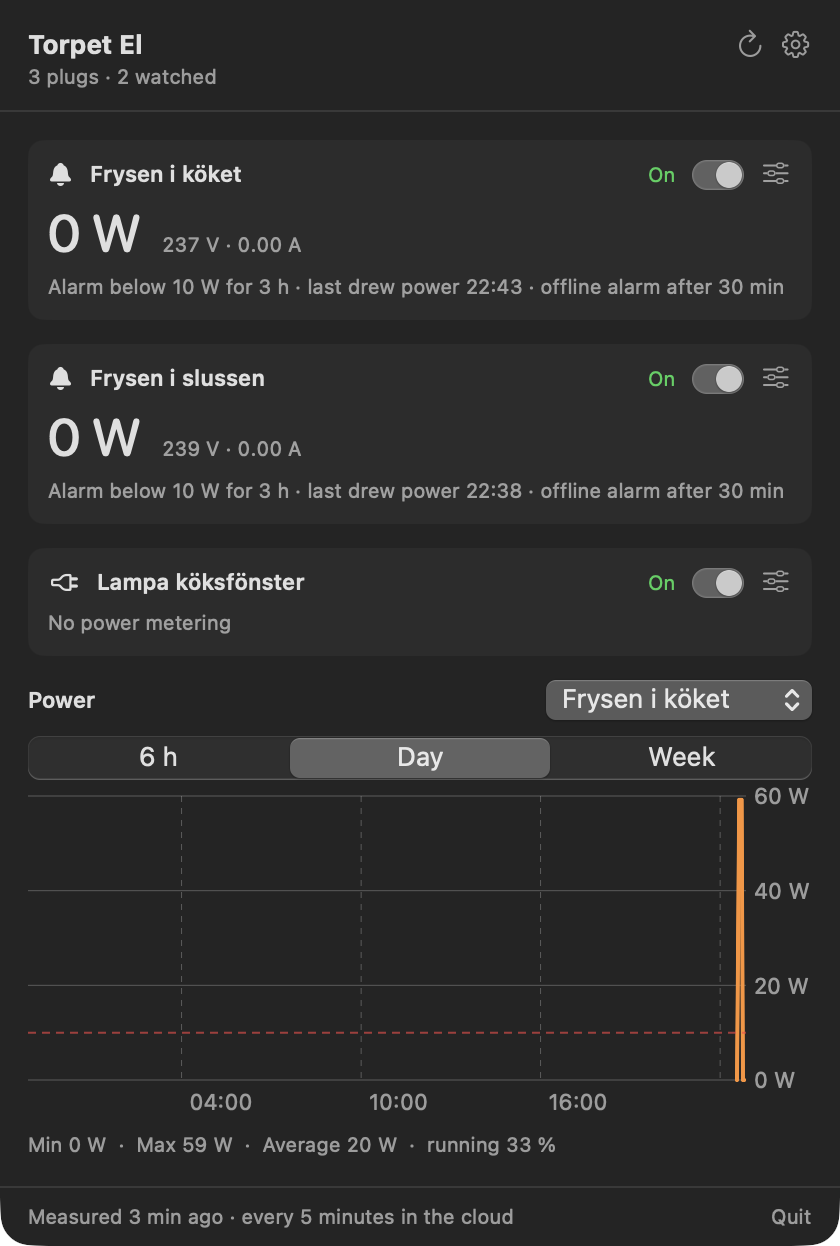
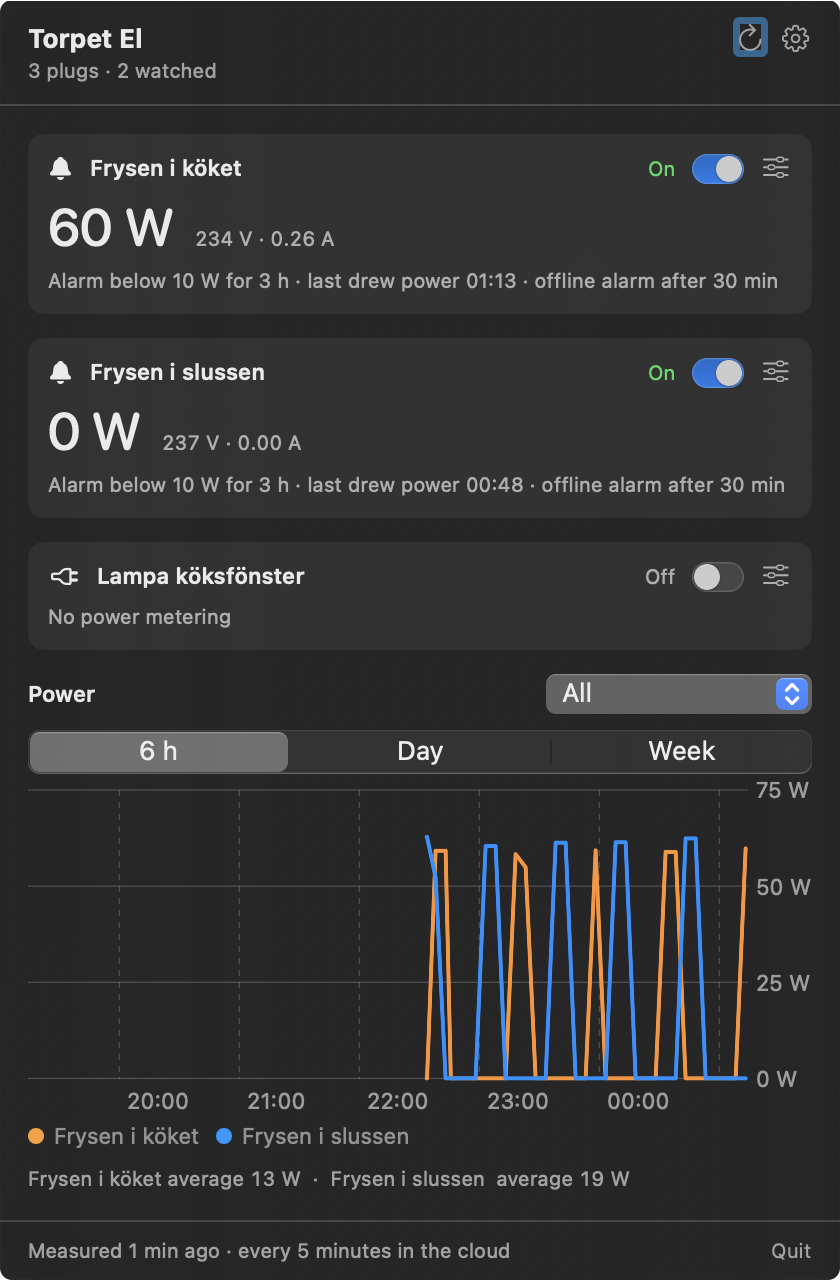
Show all plugs in one power chart by default
"All" in the chart's plug picker draws every metered plug in its own
color. New screenshot in the README.

diff --git a/Sources/TorpetEl/PlugStore.swift b/Sources/TorpetEl/PlugStore.swift
@@ -24,11 +24,15 @@ enum ChartSpan: String, CaseIterable, Identifiable, Sendable {
 }
 
 struct ChartPoint: Identifiable, Sendable {
+    let plugID: String
+    let plugName: String
     let date: Date
     let power: Double
     /// Ny del efter ett glapp, så linjen inte dras över tid utan mätningar.
     let segment: Int
-    var id: Date { date }
+    var id: String { "\(plugID)|\(date.timeIntervalSince1970)" }
+    /// En linje per plugg och del.
+    var series: String { "\(plugID)|\(segment)" }
 }
 
 @MainActor
@@ -101,8 +105,10 @@ final class PlugStore: ObservableObject {
             fetchedAt = snap.fetchedAt.map { Date(timeIntervalSince1970: $0) }
             error = cloudProblem(snap)
 
-            if chartPlugID == nil || !plugs.contains(where: { $0.id == chartPlugID }) {
-                chartPlugID = (plugs.first { watch[$0.id]?.enabled == true && $0.hasMeter } ?? plugs.first { $0.hasMeter })?.id
+            if chartPlugID == nil || (!chartShowsAll && !plugs.contains(where: { $0.id == chartPlugID })) {
+                // Alla pluggar i samma diagram som standard, om det finns fler än en att jämföra.
+                let metered = plugs.filter(\.hasMeter)
+                chartPlugID = metered.count > 1 ? Self.allPlugs : metered.first?.id
             }
             notifyTransitions()
             await loadChart()
@@ -199,20 +205,37 @@ final class PlugStore: ObservableObject {
 
     // MARK: Diagram
 
+    /// Värde för `chartPlugID` som visar alla pluggar med elmätare i samma diagram.
+    static let allPlugs = "*all*"
+
+    var chartShowsAll: Bool { chartPlugID == Self.allPlugs }
+
+    /// Pluggarna som diagrammet visar just nu.
+    var chartPlugIDs: [String] {
+        guard let id = chartPlugID else { return [] }
+        return id == Self.allPlugs ? plugs.filter(\.hasMeter).map(\.id) : [id]
+    }
+
+    /// Larmgränsen för diagrammet. Bara när en plugg visas, eftersom pluggarna kan ha olika gränser.
     var chartConfig: WatchConfig? {
-        guard let id = chartPlugID, let p = plugs.first(where: { $0.id == id }) else { return nil }
+        guard !chartShowsAll, let id = chartPlugID, let p = plugs.first(where: { $0.id == id }) else { return nil }
         return config(for: p)
     }
 
-    /// Hämtar bara det som saknas: nya mätningar sedan förra gången, eller äldre om tidsspannet blivit längre.
     func loadChart() async {
-        guard let id = chartPlugID else { return }
+        let ids = chartPlugIDs
+        guard !ids.isEmpty else { return }
+        chartLoading = true
+        defer { chartLoading = false }
+        for id in ids { await loadChart(id) }
+    }
+
+    /// Hämtar bara det som saknas: nya mätningar sedan förra gången, eller äldre om tidsspannet blivit längre.
+    private func loadChart(_ id: String) async {
         let from = Date().addingTimeInterval(-chartSpan.seconds)
         let have = chartSamples[id] ?? []
         // Redan hämtat från `from` eller tidigare: bara det nya behövs.
         let last = chartFrom[id].flatMap { $0 <= from ? have.last : nil }
-        chartLoading = true
-        defer { chartLoading = false }
         do {
             if let last {
                 let weekAgo = Date().addingTimeInterval(-ChartSpan.week.seconds)
@@ -228,7 +251,11 @@ final class PlugStore: ObservableObject {
     }
 
     func chartPoints(now: Date = Date()) -> [ChartPoint] {
-        guard let id = chartPlugID else { return [] }
+        chartPlugIDs.flatMap { chartPoints(for: $0, now: now) }
+    }
+
+    private func chartPoints(for id: String, now: Date) -> [ChartPoint] {
+        let name = plugs.first { $0.id == id }?.name ?? id
         let from = now.addingTimeInterval(-chartSpan.seconds)
         var out: [ChartPoint] = []
         var segment = 0
@@ -236,7 +263,7 @@ final class PlugStore: ObservableObject {
         for s in chartSamples[id] ?? [] where s.date >= from {
             guard s.online, let w = s.power else { prev = nil; continue }
             if !out.isEmpty && (prev == nil || s.date.timeIntervalSince(prev!) > Alarm.maxGap) { segment += 1 }
-            out.append(ChartPoint(date: s.date, power: w, segment: segment))
+            out.append(ChartPoint(plugID: id, plugName: name, date: s.date, power: w, segment: segment))
             prev = s.date
         }
         return out

diff --git a/Sources/TorpetEl/Views.swift b/Sources/TorpetEl/Views.swift
@@ -254,6 +254,10 @@ private struct PowerChart: View {
                     Text(L.t("Effekt", "Power")).font(.subheadline.weight(.semibold))
                     Spacer()
                     Picker("", selection: $store.chartPlugID) {
+                        if metered.count > 1 {
+                            Text(L.t("Alla", "All")).tag(Optional(PlugStore.allPlugs))
+                            Divider()
+                        }
                         ForEach(metered) { Text($0.name).tag(Optional($0.id)) }
                     }
                     .labelsHidden().fixedSize()
@@ -264,7 +268,7 @@ private struct PowerChart: View {
                 .pickerStyle(.segmented).labelsHidden()
 
                 ZStack {
-                    chart(pts).frame(height: 160)
+                    chart(pts, plugs: metered).frame(height: store.chartShowsAll ? 180 : 160)
                     if pts.isEmpty {
                         if store.chartLoading {
                             ProgressView().controlSize(.small)
@@ -280,13 +284,22 @@ private struct PowerChart: View {
         }
     }
 
-    private func chart(_ pts: [ChartPoint]) -> some View {
+    /// Färger för "Alla", i pluggarnas ordning. Orange först, som när en plugg visas ensam.
+    private static let colors: [Color] = [.orange, .blue, .green, .purple, .pink, .teal, .brown]
+
+    private func chart(_ pts: [ChartPoint], plugs: [Plug]) -> some View {
         let now = Date()
         let limit = store.chartConfig.flatMap { $0.enabled ? $0.minWatts : nil }
+        let names = plugs.map(\.name)
         return Chart {
             ForEach(pts) { p in
-                LineMark(x: .value("Tid", p.date), y: .value("W", p.power), series: .value("Del", p.segment))
-                    .foregroundStyle(.orange)
+                if store.chartShowsAll {
+                    LineMark(x: .value("Tid", p.date), y: .value("W", p.power), series: .value("Del", p.series))
+                        .foregroundStyle(by: .value(L.t("Plugg", "Plug"), p.plugName))
+                } else {
+                    LineMark(x: .value("Tid", p.date), y: .value("W", p.power), series: .value("Del", p.series))
+                        .foregroundStyle(.orange)
+                }
             }
             if let limit {
                 RuleMark(y: .value(L.t("Gräns", "Limit"), limit))
@@ -294,6 +307,8 @@ private struct PowerChart: View {
                     .lineStyle(StrokeStyle(lineWidth: 1, dash: [4, 3]))
             }
         }
+        .chartForegroundStyleScale(domain: names, range: names.indices.map { Self.colors[$0 % Self.colors.count] })
+        .chartLegend(store.chartShowsAll ? .visible : .hidden)
         .chartXScale(domain: now.addingTimeInterval(-store.chartSpan.seconds)...now)
         .chartXAxis {
             AxisMarks(values: .automatic(desiredCount: 4)) { v in
@@ -319,6 +334,13 @@ private struct PowerChart: View {
 
     /// Min, max och medel, och hur stor del av mätningarna som låg över gränsen (för en frys: hur mycket kompressorn går).
     private func summary(_ pts: [ChartPoint]) -> some View {
+        if store.chartShowsAll {
+            // Medel per plugg; min och max säger lite när kurvorna ligger i samma diagram.
+            let parts = Dictionary(grouping: pts, by: \.plugName)
+                .sorted { $0.key.localizedStandardCompare($1.key) == .orderedAscending }
+                .map { name, ps in "\(name) " + L.t("medel ", "average ") + Fmt.watts(ps.map(\.power).reduce(0, +) / Double(ps.count)) }
+            return Text(parts.joined(separator: "  ·  ")).font(.caption).foregroundStyle(.secondary).monospacedDigit()
+        }
         let values = pts.map(\.power)
         let avg = values.reduce(0, +) / Double(values.count)
         var parts = ["Min \(Fmt.watts(values.min()))", "Max \(Fmt.watts(values.max()))", L.t("Medel ", "Average ") + Fmt.watts(avg)]

diff --git a/README.md b/README.md
@@ -4,7 +4,7 @@ A macOS menu bar app that watches the Tuya/Smart Life smart plugs at our summer 
 alarm when a freezer stops drawing power. The watching itself runs in AWS (see [cloud/](cloud/README.md)), so alarms
 reach your phone through ntfy even when the Mac is asleep or off. The app shows what the cloud sees.
 
-<p align="center"><img src="docs/screenshot.png" width="420" alt="Torpet El menu bar window with three plugs and a power chart"></p>
+<p align="center"><img src="docs/screenshot.png" width="420" alt="Torpet El menu bar window with three plugs and a power chart showing both freezers"></p>
 
 The menu bar shows the watched plugs' current power, for example `⚡ 84 W  63 W`, and switches to `⚠` and the
 plug's name when something is wrong. Click it to see:
@@ -12,8 +12,9 @@ plug's name when something is wrong. Click it to see:
 - **Every plug**: on/off switch, online status, power, voltage and current.
 - **Alarm settings** per plug: below how many watts it counts as having no power, how long it may stay that way,
   and whether to alarm when the plug goes offline (power cut, tripped fuse, network down at the cottage).
-- **A power chart** for the last 6 hours, day or week, with the alarm limit and how much of the time the
-  compressor ran.
+- **A power chart** for the last 6 hours, day or week. By default it shows every plug with power metering in
+  its own color, with each plug's average power. Pick a single plug to see its alarm limit and how much of the time
+  the compressor ran.
 
 Alarms are sent to the phone through ntfy and as macOS notifications, and again when the plug recovers.
 
@@ -54,8 +55,8 @@ settings to check that they arrive.
    and **Access Secret**, and prints an ntfy topic to subscribe to on the phone and an API key.
 5. Paste the Function URL and API key into the app's settings.
 
-The free IoT Core trial has to be extended now and then under **Cloud → Cloud Services**; you get an alarm when it
-expires. The URL and key are stored in `~/Library/Application Support/TorpetEl/cloud.json` (readable only by you).
+The free IoT Core trial has to be extended now and then under **Cloud → Cloud Services**. Save its expiry date with
+`cloud/setup-params.sh` to get reminders before it runs out; you get an alarm if it expires anyway. The URL and key are stored in `~/Library/Application Support/TorpetEl/cloud.json` (readable only by you).
 
 ## Files
 
